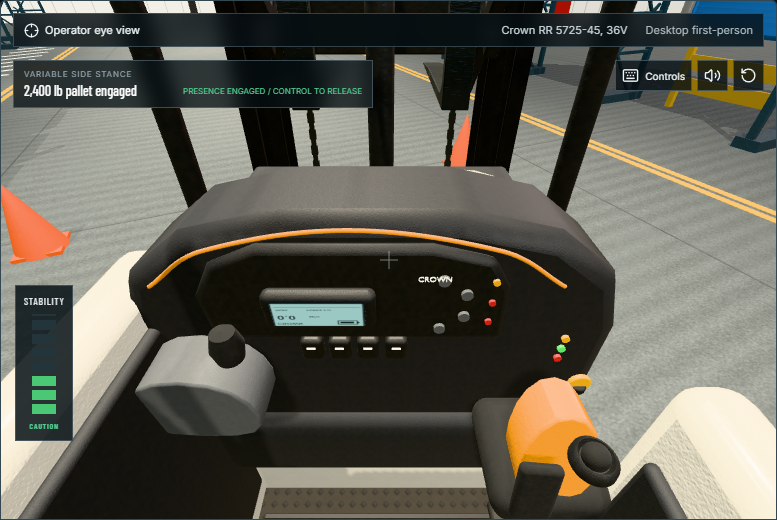
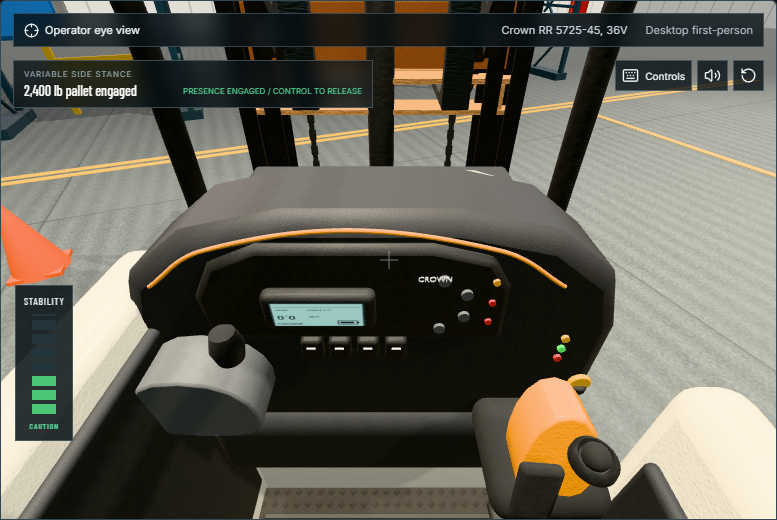
Fix fork seating logic and adjust fork camera texture orientation for accurate rendering

diff --git a/src/sim/loadPhysics.js b/src/sim/loadPhysics.js
@@ -94,8 +94,15 @@ export function forkConfigurationForProfile(profile, rig) {
     specification.tineWidth = metrics.tineWidth
     // Heel position in the fork frame's own space, so a picked-up load can be
     // seated against the backrest instead of left wherever the approach stopped.
-    const frameWorldZ = forkFrame.getWorldPosition(new THREE.Vector3()).z
-    specification.heelLocalZ = metrics.heelZ - frameWorldZ
+    //
+    // metrics.heelZ is TRUCK-LOCAL -- measureForks runs during rig mapping,
+    // before the Simulator moves the truck to its start position. Subtracting a
+    // WORLD frame position from it mixed the two spaces and put `seated` about
+    // 13 m ahead of the forks, which is why a picked-up pallet shot forty feet
+    // down the aisle while still tracking lift. Both terms must be truck-local.
+    const frameLocal = forkFrame.getWorldPosition(new THREE.Vector3())
+    if (rig.root) rig.root.worldToLocal(frameLocal)
+    specification.heelLocalZ = metrics.heelZ - frameLocal.z
   }
   return { forkFrame, forkSpecification: specification }
 }

diff --git a/src/components/Simulator.jsx b/src/components/Simulator.jsx
@@ -324,6 +324,14 @@ const Simulator = forwardRef(function Simulator({ profile, onTelemetry, onSafety
       forkCamTarget = new THREE.WebGLRenderTarget(320, 200, {
         minFilter: THREE.LinearFilter, magFilter: THREE.LinearFilter, depthBuffer: true,
       })
+      // A render target is drawn by the GPU with its origin at the BOTTOM left,
+      // while the canvas textures on the instrument screens are flipped on
+      // upload (flipY) so theirs ends up at the top. `flipY` does nothing to a
+      // render target because nothing is uploaded, so the same planar UVs that
+      // read correctly on the dash displays showed this feed upside down.
+      // Inverting V through the texture transform is the fix that does work.
+      forkCamTarget.texture.repeat.set(1, -1)
+      forkCamTarget.texture.offset.set(0, 1)
       // Wide and close to level. At 68 degrees pitched 12.6 degrees down the
       // nearby floor filled the whole frame and the feed read as a flat colour;
       // a real fork camera is a wide-angle lens aimed down the blades, showing
